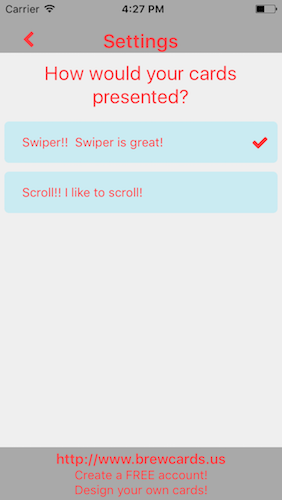
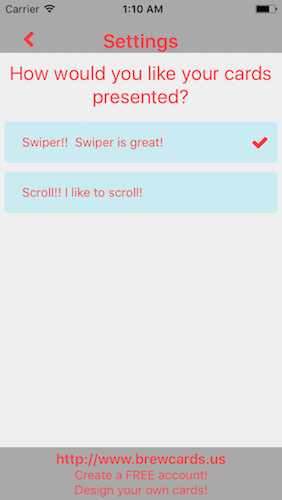
fix typo

Changed region(s): [[0.0284, 0.12, 0.9645, 0.18], [0.4255, 0.0, 0.5957, 0.03], [0.9362, 0.0, 0.9645, 0.03]]

diff --git a/app/screens/settings/SettingsMain.js b/app/screens/settings/SettingsMain.js
@@ -75,8 +75,8 @@ class SettingsMain extends React.Component {
   renderMainView(){
     return(
       <View style={{ flex:1 }}>
-        <Text style={ settings.heading }>How would your cards presented?</Text>
-        
+        <Text style={ settings.heading }>How would you like your cards presented?</Text>
+
         { this.renderOption( () => this.props.showSwiper(), 'Swiper!!  Swiper is great!', true ) }
 
         { this.renderOption( () => this.props.showScroll(), 'Scroll!! I like to scroll!', false ) }
